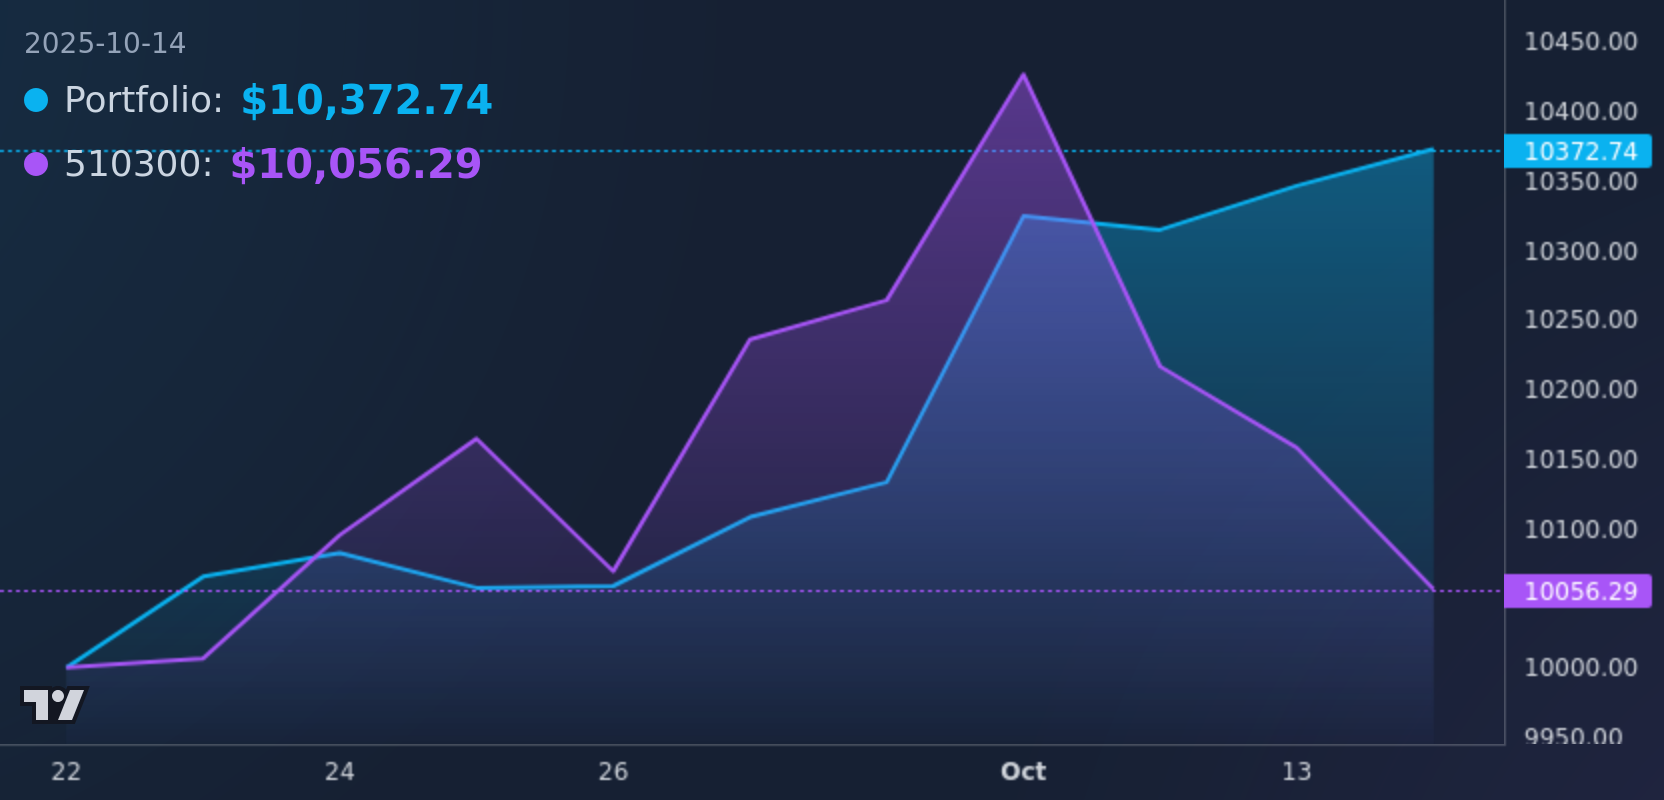
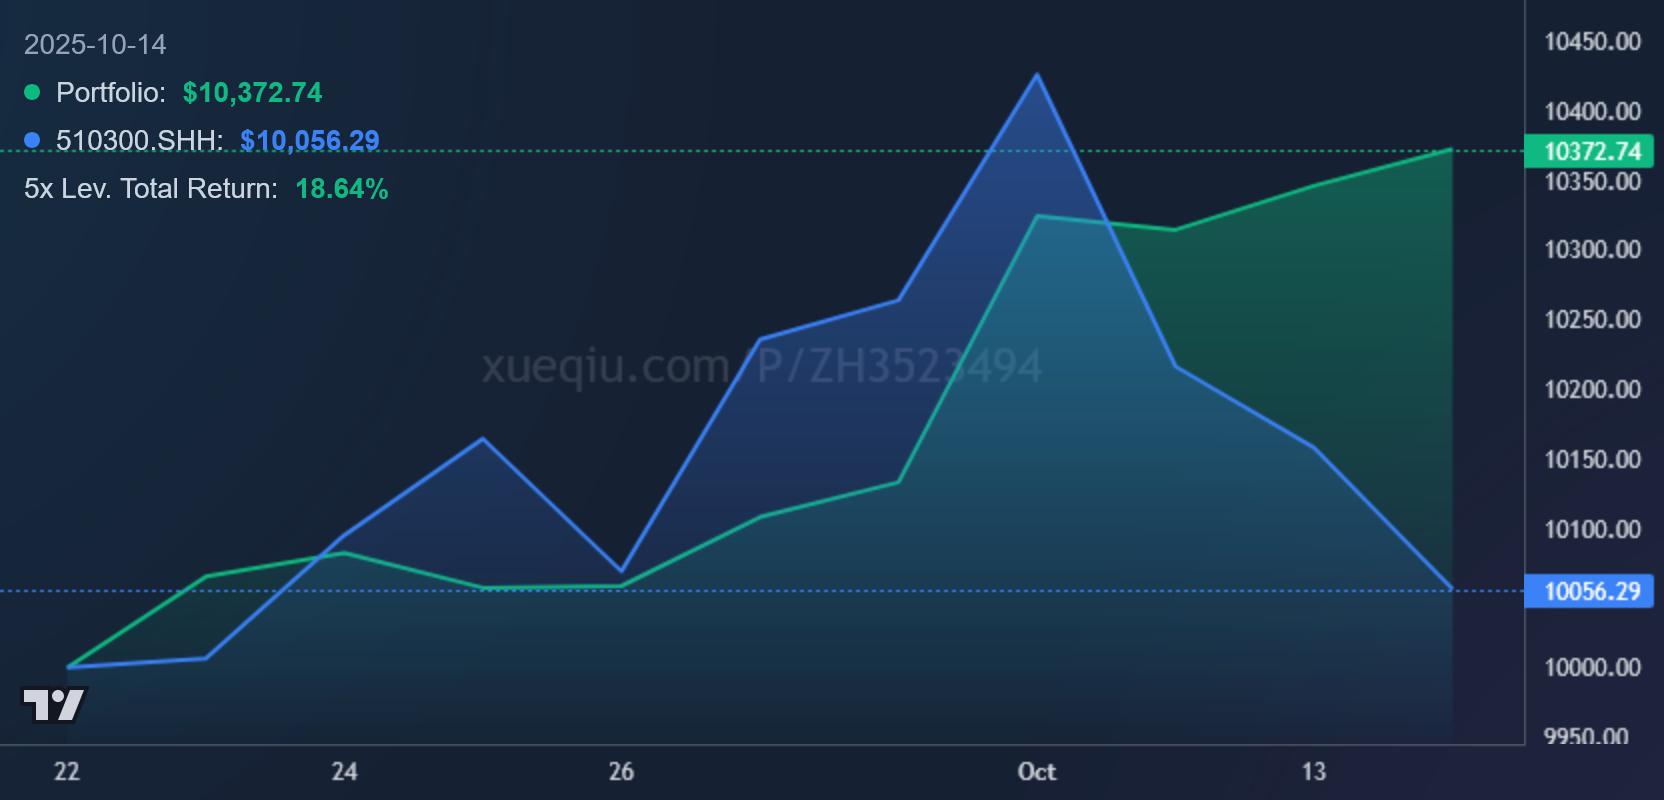
feat: update chart styling and add 5x leverage return display
- Change portfolio and benchmark chart colors to green and blue respectively
- Add display for 5x leveraged total return in chart legend
- Update watermark styling and footer text
- Preserve full benchmark ticker format in data.json

diff --git a/pages/index.html b/pages/index.html
@@ -8,6 +8,7 @@
       href="https://static.tradingview.com/static/images/favicon.ico"
       rel="icon"
     />
+    
     <script src="https://cdn.tailwindcss.com"></script>
     <script src="https://unpkg.com/lightweight-charts/dist/lightweight-charts.standalone.production.js"></script>
     <style>
@@ -163,12 +164,12 @@
       </div>
     </main>
     <footer class="text-center text-xs text-slate-600 pb-4">
-      Powered by Python, QuantStats & GitHub Actions
+      Powered by Tradingview, QuantStats & GitHub Actions.
     </footer>
 
     <script>
       let benchmarkTickerName = "Benchmark";
-
+      let totalReturn5x = "--";
       document.addEventListener("DOMContentLoaded", () => {
         fetch("data.json", { cache: "no-store" }) // Use no-store to avoid caching of the data file
           .then((response) => {
@@ -260,7 +261,8 @@
           "metric-bench-annual-return",
           m["Benchmark Annualized Return"]
         );
-
+        
+        
         document.getElementById("metric-volatility").textContent =
           (m["Annualized Volatility"] * 100).toFixed(2) + "%";
         document.getElementById("metric-bench-volatility").textContent =
@@ -278,7 +280,7 @@
           m["Benchmark Sortino Ratio"],
           "ratio"
         );
-
+        totalReturn5x = (m["Total Return"] * 5 * 100).toFixed(2) + "%";
         // --- Populate Chart ---
         renderChart(data.chartData);
       }
@@ -303,16 +305,16 @@
         });
 
         const portfolioSeries = chart.addSeries(LightweightCharts.AreaSeries, {
-          topColor: "rgba(10, 178, 240, 0.5)",
-          bottomColor: "rgba(10, 178, 240, 0.01)",
-          lineColor: "#0ab2f0",
+          topColor: "rgba(16, 185, 129, 0.5)",
+          bottomColor: "rgba(16, 185, 129, 0.01)",
+          lineColor: "#10B981",
           lineWidth: 2,
           crossHairMarkerVisible: false,
         });
         const benchmarkSeries = chart.addSeries(LightweightCharts.AreaSeries, {
-          topColor: "rgba(168, 85, 247, 0.5)",
-          bottomColor: "rgba(168, 85, 247, 0.01)",
-          lineColor: "#a855f7",
+          topColor: "rgba(59, 130, 246, 0.5)",
+          bottomColor: "rgba(59, 130, 246, 0.01)",
+          lineColor: "#3B82F6",
           lineWidth: 2,
           crossHairMarkerVisible: false,
         });
@@ -330,13 +332,14 @@
         setTimeout(() => {
           chart.timeScale().fitContent();
         }, 0);
-        createTextWatermark(chart.panes()[0], {
+        
+        LightweightCharts.createTextWatermark(chart.panes()[0], {
           horzAlign: "center",
           vertAlign: "center",
           lines: [
             {
               text: "xueqiu.com/P/ZH3523494",
-              color: "rgba(171, 71, 188, 0.5)",
+              color: "rgba(180, 180, 190, 0.2)",
               fontSize: 24,
             },
           ],
@@ -351,14 +354,19 @@
           legend.innerHTML = `
                     <div class="text-slate-400 text-sm">${date}</div>
                     <div class="flex items-center mt-1">
-                        <div class="w-3 h-3 rounded-full bg-[#0ab2f0] mr-2"></div>
-                        <span class="text-slate-300 mr-2 text-lg">Portfolio:</span>
-                        <span class="font-bold text-xl text-[#0ab2f0]">${pPrice}</span>
+                        <div class="w-2 h-2 rounded-full bg-[#10B981] mr-2"></div>
+                        <span class="text-slate-300 mr-2 text-sm">Portfolio:</span>
+                        <span class="font-bold text-sm text-[#10B981]">${pPrice}</span>
                     </div>
                     <div class="flex items-center mt-1">
-                        <div class="w-3 h-3 rounded-full bg-[#a855f7] mr-2"></div>
-                        <span class="text-slate-300 mr-2 text-lg">${benchmarkTickerName}:</span>
-                        <span class="font-bold text-xl text-[#a855f7]">${bPrice}</span>
+                        <div class="w-2 h-2 rounded-full bg-[#3B82F6] mr-2"></div>
+                        <span class="text-slate-300 mr-2 text-sm">${benchmarkTickerName}:</span>
+                        <span class="font-bold text-sm text-[#3B82F6]">${bPrice}</span>
+                    </div>
+                    <div class="flex items-center mt-1">
+                        
+                        <span class="text-slate-300 mr-2 text-sm">5x Lev. Total Return:</span>
+                        <span class="font-bold text-sm text-[#10B981]">${totalReturn5x}</span>
                     </div>
                 `;
         };

diff --git a/generate_report.py b/generate_report.py
@@ -34,6 +34,7 @@ OUTPUT_JSON_PATH = "pages/data.json"
 
 # --- 数据获取模块 ---
 def fetch_data_from_api(ticker, output_size='full'):
+    # https://www.stockapi.com.cn/v1/base/day?code=600004&endDate=2021-10-15&startDate=2021-10-10&calculationCycle=100
     # ... (此函数保持不变) ...
     print(f"\n--- Attempting to fetch data for {ticker} from API (outputsize={output_size}) ---")
     url = f'https://www.alphavantage.co/query?function=TIME_SERIES_DAILY&symbol={ticker}&apikey={API_KEY}'
@@ -175,7 +176,7 @@ def generate_data_json(portfolio_returns=None, benchmark_returns=None, is_future
             "status": "success",
             "lastUpdated": datetime.now(timezone.utc).strftime('%Y-%m-%d %H:%M:%S') + " UTC",
             "initialCapital": INITIAL_CAPITAL,
-            "benchmarkTicker": BENCHMARK_TICKER.split('.')[0],
+            "benchmarkTicker": BENCHMARK_TICKER,
             "metrics": metrics,
             "chartData": {
                 "portfolio": chart_data_portfolio,
